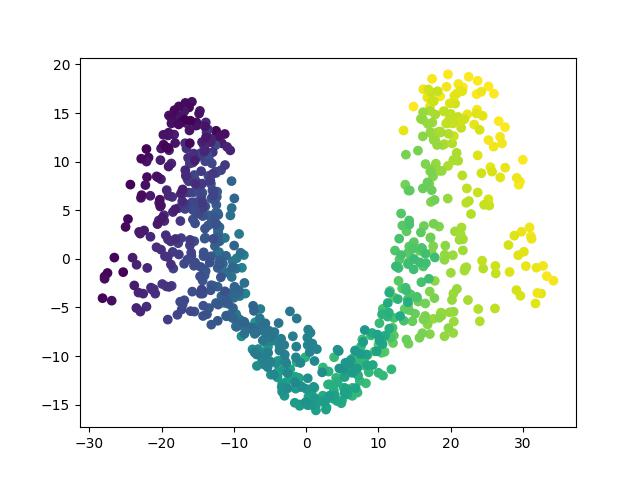
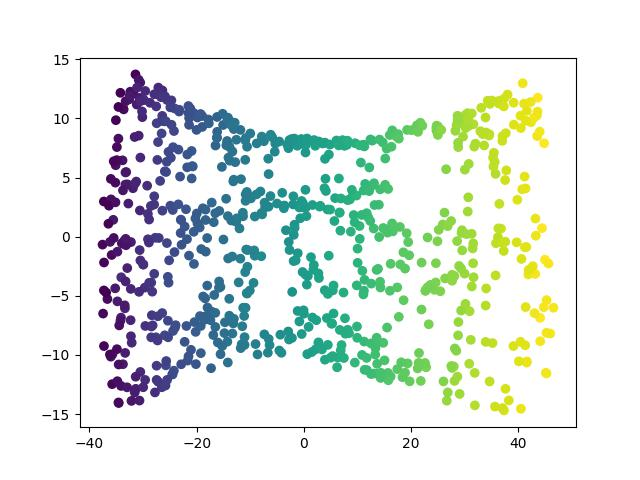
x

diff --git a/main.py b/main.py
@@ -129,12 +129,12 @@ if __name__ == '__main__':
     # show_swiss(X, Y)
     D = distance_matrix(X)
 
-    k = 11
-    e = 3
+    k = 7
+    e = 2.5
 
     W_k = k_weight_matrix(D, k)
     W_e = e_weight_matrix(D, e)
-    plot_graph_3d(X.T, W_e, Y)
+    plot_graph_3d(X.T, W_k, Y)
 
     D_optimised = Floyd_Warshall(W_k)
 
